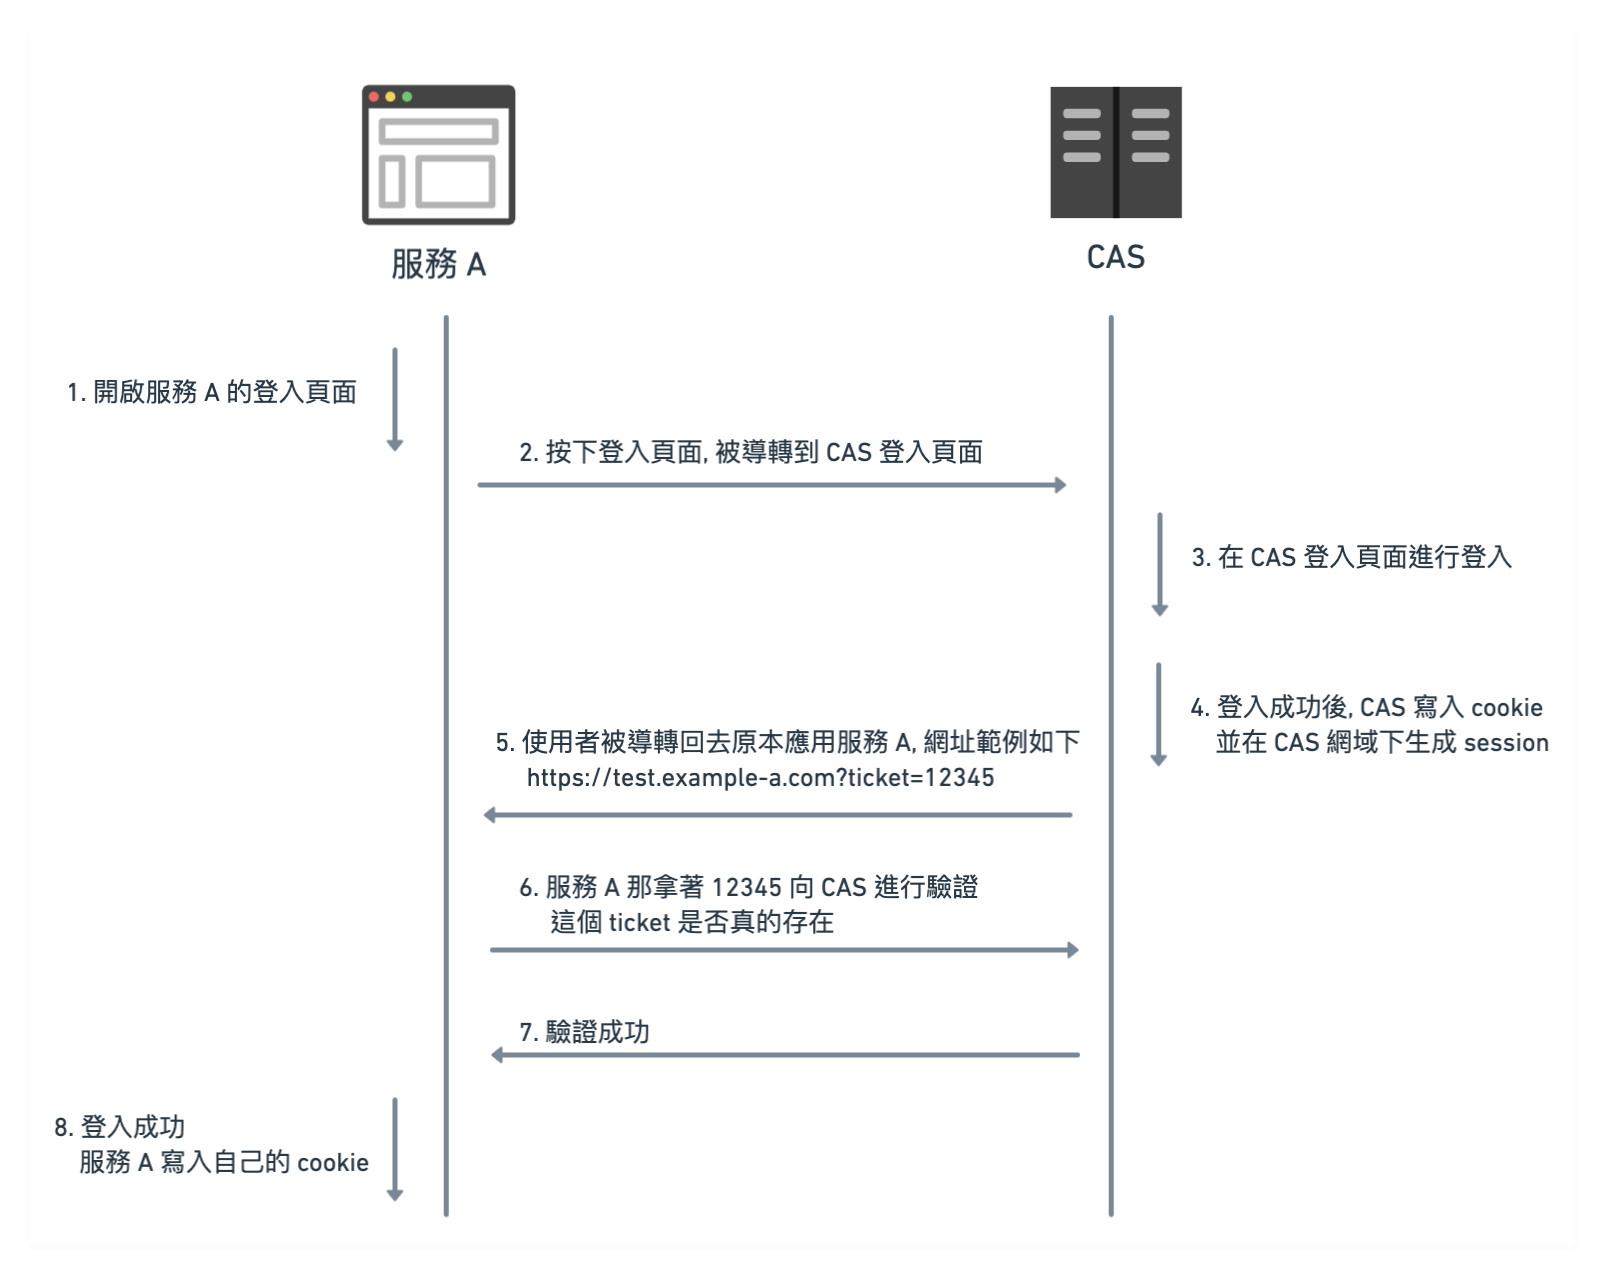
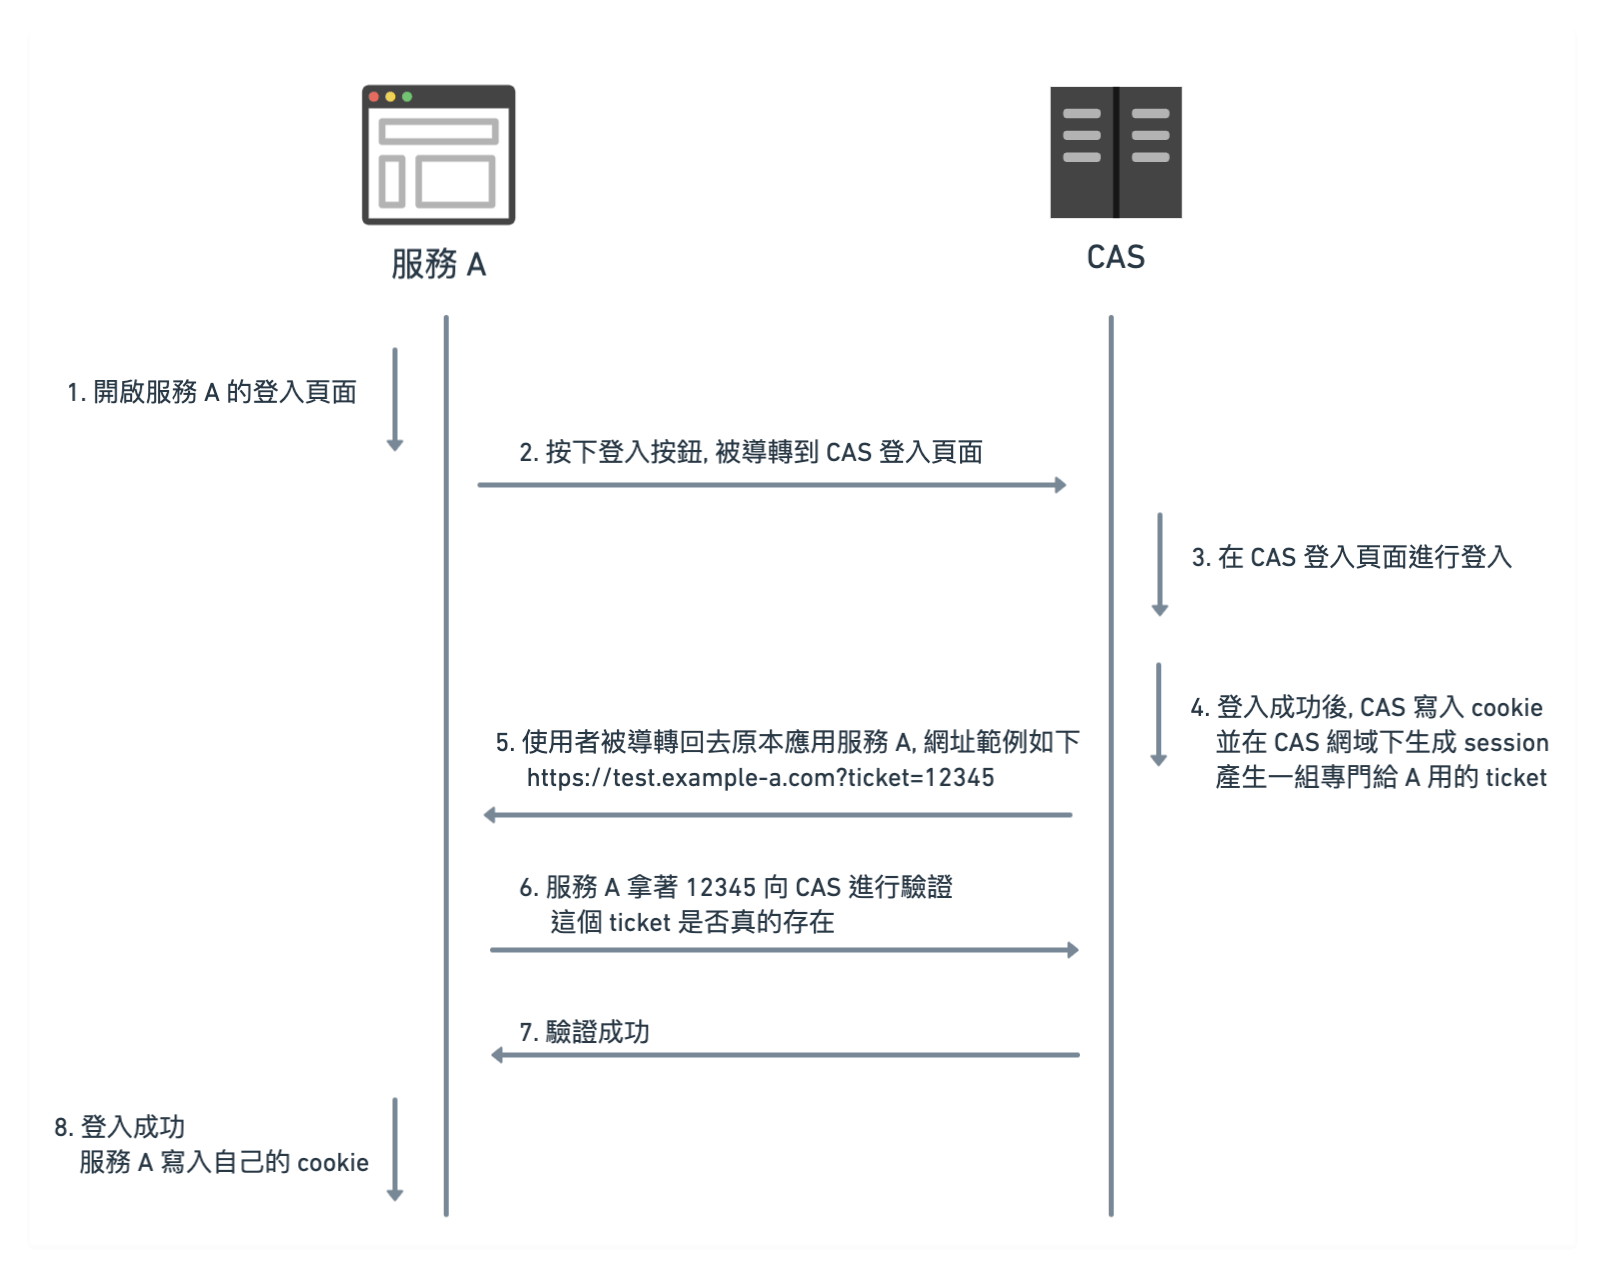
fix

Changed region(s): [[0.3738, 0.6729, 0.6231, 0.7341], [0.7477, 0.5812, 0.9657, 0.6424], [0.405, 0.3365, 0.4361, 0.3671]]

diff --git a/source/_posts/_sso-2.md b/source/_posts/_sso-2.md
@@ -30,7 +30,7 @@ CAS 全名是 Central Authentication Service
 
 ## 第一次登入使用 A 流程
 
-1. 使用者開啟應用服務 A 的頁面, 但使用者尚未登入獲得認證  
+1. 使用者開啟應用服務 A 的頁面, 但使用者尚未登入獲得認證, 並點下登入按鈕  
 2. 使用者被導轉到 CAS Server 的登入頁面  
 3. 使用者在 CAS Server 進行登入  
 4. 使用者登入成功之後, CAS Server 會寫入一個 cookie 在 CAS Server 的網域下並產生 session   
@@ -43,7 +43,7 @@ CAS 全名是 Central Authentication Service
 
 ## 第二次登入使用 B 流程
 
-1. 使用者開啟應用服務 B 的頁面, 但使用者尚未得到應用服務 B 的認證  
+1. 使用者開啟應用服務 B 的頁面, 但使用者尚未得到應用服務 B 的認證, 並點下登入按鈕  
 2. 使用者被導轉到 CAS Server  
 3. 此時因為在第一次登入 CAS Server 已經寫入 cookie CAS Server 的網域  
     當使用者被轉到 CAS Server 後, CAS Server 會取得此使用者的資訊  
